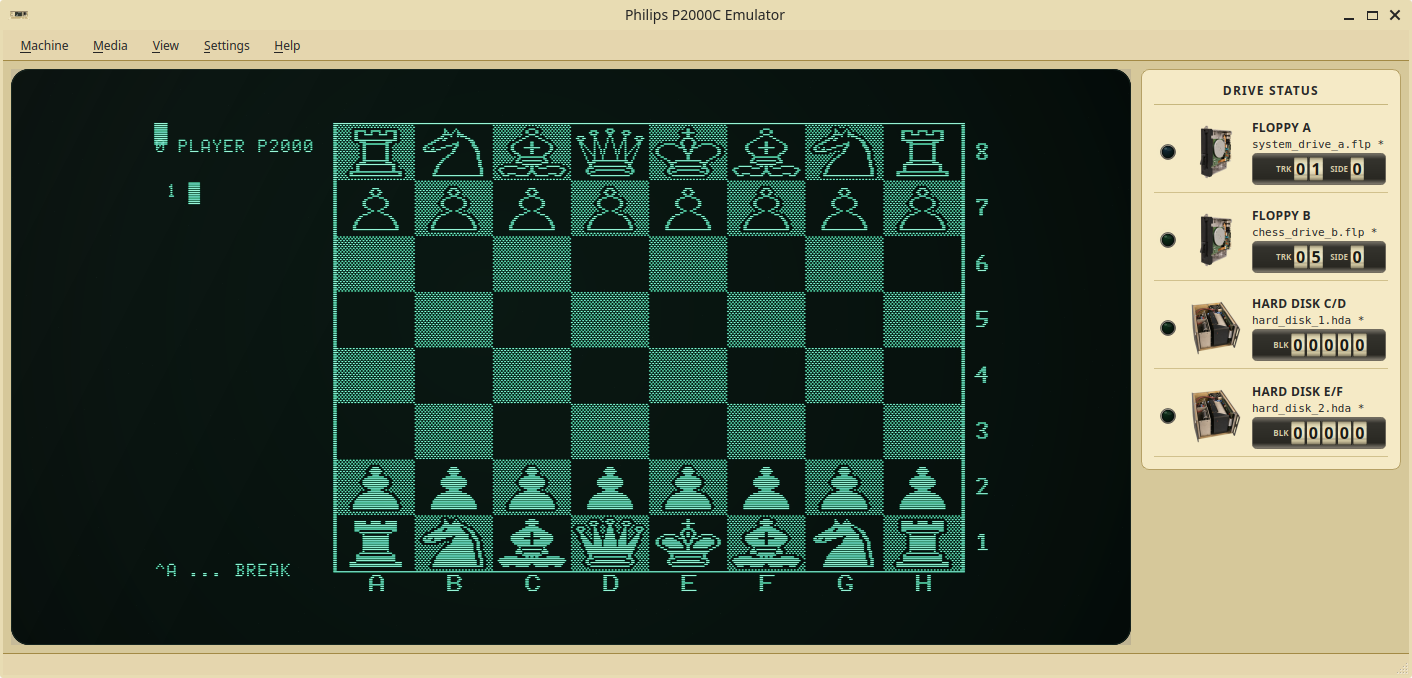
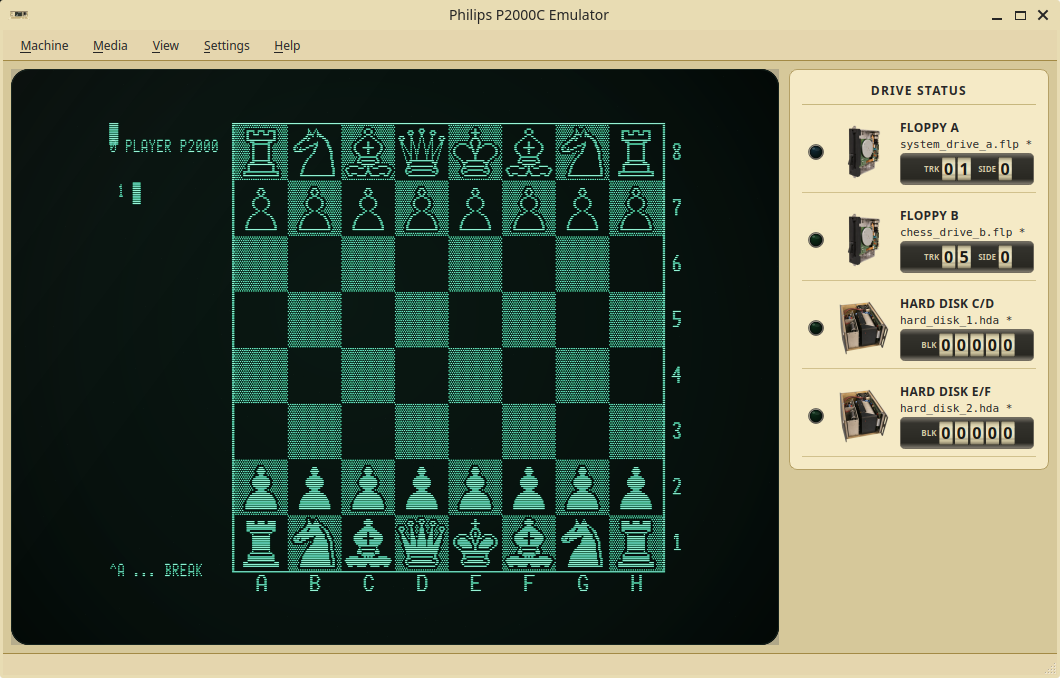
Tuning resolution and fixing Github Actions

diff --git a/tests/main_window_test.cpp b/tests/main_window_test.cpp
@@ -12,7 +12,7 @@
 #include <QEventLoop>
 #include <QFile>
 #include <QFrame>
-#include <QFontInfo>
+#include <QFontDatabase>
 #include <QImage>
 #include <QKeySequence>
 #include <QLabel>
@@ -97,7 +97,7 @@ QPoint active_crt_point(const QImage& image, qreal x, qreal y) {
 /** Checks inverse cells and the four documented intensity levels in pixels. */
 bool validate_attribute_rendering() {
   p2000c::DisplayWidget display;
-  display.setFixedSize(560, 288);
+  display.setFixedSize(384, 288);
   display.set_cursor(0, 0, false);
   p2000c::CrtEffects effects = p2000c::DisplayWidget::default_crt_effects();
   effects.persistence = false;
@@ -168,7 +168,7 @@ bool validate_graphics_rendering() {
   };
   auto render = [](const p2000c::Terminal& terminal) {
     p2000c::DisplayWidget display;
-    display.setFixedSize(560, 288);
+    display.setFixedSize(384, 288);
     display.set_cursor(0, 0, false);
     p2000c::CrtEffects effects = p2000c::DisplayWidget::default_crt_effects();
     effects.persistence = false;
@@ -186,8 +186,8 @@ bool validate_graphics_rendering() {
   p2000c::Terminal medium;
   send(&medium, {0x1b, '5', 0x1b, 'D', 0x00, 0x00});
   const QImage medium_image = render(medium);
-  const QPoint medium_pixel = active_crt_point(medium_image, 57, 269);
-  const QPoint medium_blank = active_crt_point(medium_image, 72, 269);
+  const QPoint medium_pixel = active_crt_point(medium_image, 39, 269);
+  const QPoint medium_blank = active_crt_point(medium_image, 49, 269);
   const int medium_pixel_energy =
       area_energy(medium_image, medium_pixel.x(), medium_pixel.y());
   const int medium_blank_energy =
@@ -204,8 +204,8 @@ bool validate_graphics_rendering() {
   p2000c::Terminal high;
   send(&high, {0x1b, '3', 0x1b, 'D', 0xff, 0x01, 0xfb});
   const QImage high_image = render(high);
-  const QPoint high_pixel = active_crt_point(high_image, 503, 19);
-  const QPoint high_blank = active_crt_point(high_image, 488, 19);
+  const QPoint high_pixel = active_crt_point(high_image, 345, 19);
+  const QPoint high_blank = active_crt_point(high_image, 335, 19);
   const int high_pixel_energy =
       area_energy(high_image, high_pixel.x(), high_pixel.y());
   const int high_blank_energy =
@@ -233,7 +233,7 @@ bool validate_crt_effect_rendering() {
                       p2000c::Terminal::kAttributeIntensityHigh);
   auto render = [&](const p2000c::CrtEffects& effects) {
     p2000c::DisplayWidget display;
-    display.setFixedSize(1120, 576);
+    display.setFixedSize(768, 576);
     display.set_cursor(0, 0, false);
     display.set_crt_effects(effects);
     display.set_screen(lit_screen, lit_attributes);
@@ -298,7 +298,7 @@ bool validate_crt_effect_rendering() {
   }
 
   p2000c::DisplayWidget persistent_display;
-  persistent_display.setFixedSize(560, 288);
+  persistent_display.setFixedSize(384, 288);
   persistent_display.set_cursor(0, 0, false);
   p2000c::CrtEffects persistence = plain;
   persistence.persistence = true;
@@ -342,7 +342,7 @@ bool validate_crt_effect_rendering() {
   }
 
   p2000c::DisplayWidget stable_display;
-  stable_display.setFixedSize(560, 288);
+  stable_display.setFixedSize(384, 288);
   stable_display.set_cursor(0, 0, false);
   stable_display.set_crt_effects(persistence);
   stable_display.set_screen(lit_screen, lit_attributes);
@@ -486,7 +486,7 @@ int main(int argc, char* argv[]) {
 
   p2000c::MainWindow window;
   auto* display = window.findChild<p2000c::DisplayWidget*>();
-  QAction* resolution = find_action(&window, "840 x 432");
+  QAction* resolution = find_action(&window, "640 x 480");
   QAction* screen_color = find_action(&window, "Screen &Appearance...");
   QAction* screenshot = find_named_action(&window, "saveScreenshotAction");
   QAction* sound_volume =
@@ -752,7 +752,7 @@ int main(int argc, char* argv[]) {
   }
 
   resolution->trigger();
-  if (display->size() != QSize(840, 432)) {
+  if (display->size() != QSize(640, 480)) {
     std::cerr << "Fixed display resolution was not applied.\n";
     return 1;
   }
@@ -799,39 +799,70 @@ int main(int argc, char* argv[]) {
       drive_a_card != nullptr && drive_a_card->layout() != nullptr
           ? drive_a_card->layout()->itemAt(2)
           : nullptr;
-  if (drive_a_status == nullptr || drive_a_position == nullptr ||
-      drive_a_menu == nullptr ||
-      drive_a_current == nullptr || drive_panel == nullptr ||
-      drive_a_led == nullptr || drive_a_icon == nullptr ||
-      drive_a_icon->pixmap().isNull() || drive_a_card == nullptr ||
-      drive_a_card->frameShape() != QFrame::NoFrame ||
-      !drive_a_card->property("driveCard").toBool() ||
-      !drive_a_icon->property("driveTypeIcon").toBool() ||
-      drive_a_icon->size() != QSize(60, 60) ||
-      drive_a_icon->pixmap().size() != QSize(58, 58) ||
-      drive_a_text_item == nullptr || drive_a_text_item->layout() == nullptr ||
+  const bool drive_a_widgets_valid =
+      drive_a_status != nullptr && drive_a_position != nullptr &&
+      drive_a_menu != nullptr && drive_a_current != nullptr &&
+      drive_panel != nullptr && drive_a_led != nullptr &&
+      drive_a_icon != nullptr && drive_a_card != nullptr &&
+      drive_a_text_item != nullptr && drive_a_text_item->layout() != nullptr;
+  const bool drive_a_structure_valid =
+      drive_a_widgets_valid && !drive_a_icon->pixmap().isNull() &&
+      drive_a_card->frameShape() == QFrame::NoFrame &&
+      drive_a_card->property("driveCard").toBool() &&
+      drive_a_icon->property("driveTypeIcon").toBool() &&
+      drive_a_icon->size() == QSize(60, 60) &&
+      drive_a_icon->pixmap().size() == QSize(58, 58) &&
+      drive_a_icon->accessibleName().contains("hardware illustration") &&
+      drive_a_status->property("mediaFilename").toBool() &&
+      window.findChild<QWidget*>("floppyDriveASource") == nullptr;
+  const bool drive_a_layout_valid =
+      drive_a_widgets_valid &&
       std::abs(drive_a_led->geometry().center().y() -
-               drive_a_icon->geometry().center().y()) > 1 ||
+               drive_a_icon->geometry().center().y()) <= 1 &&
       std::abs(drive_a_text_item->geometry().center().y() -
-               drive_a_icon->geometry().center().y()) > 1 ||
-      !drive_a_icon->accessibleName().contains("hardware illustration") ||
-      !drive_a_status->property("mediaFilename").toBool() ||
-      !QFontInfo(drive_a_status->font()).fixedPitch() ||
-      window.palette().color(QPalette::Window) != QColor("#e8dcb3") ||
-      !qApp->styleSheet().contains(
-          "QFrame#driveActivityPanel {\n      background: #f5eac6;") ||
-      idle_led.isNull() ||
-      qGray(idle_led.pixel(9, 8)) <= qGray(idle_led.pixel(12, 12)) ||
-      idle_led.pixelColor(12, 12) == idle_led.pixelColor(0, 0) ||
-      drive_a_status->text() != "system_drive_a.flp *" ||
-      window.findChild<QWidget*>("floppyDriveASource") != nullptr ||
-      !drive_a_position->accessibleName().contains("Track") ||
-      !drive_a_position->accessibleName().contains("side") ||
-      !drive_a_status->toolTip().contains("bundled template") ||
-      !drive_a_status->toolTip().contains(system_path) ||
-      !drive_a_menu->title().contains("system_drive_a.flp") ||
-      !drive_a_current->isChecked() || !system->isChecked()) {
-    std::cerr << "Drive A media indicators did not show the mounted image.\n";
+               drive_a_icon->geometry().center().y()) <= 1;
+  const bool system_fixed_font_valid =
+      drive_a_widgets_valid &&
+      drive_a_status->font().family() ==
+          QFontDatabase::systemFont(QFontDatabase::FixedFont).family();
+  const bool idle_led_highlight_valid =
+      !idle_led.isNull() &&
+      qGray(idle_led.pixel(9, 8)) > qGray(idle_led.pixel(12, 12));
+  const bool idle_led_fill_valid =
+      !idle_led.isNull() &&
+      idle_led.pixelColor(12, 12) != idle_led.pixelColor(0, 0);
+  const bool drive_a_style_valid =
+      system_fixed_font_valid &&
+      window.palette().color(QPalette::Window) == QColor("#e8dcb3") &&
+      qApp->styleSheet().contains(
+          "QFrame#driveActivityPanel {\n      background: #f5eac6;") &&
+      idle_led_highlight_valid && idle_led_fill_valid;
+  const bool drive_a_media_valid =
+      drive_a_widgets_valid &&
+      drive_a_status->text() == "system_drive_a.flp *" &&
+      drive_a_position->accessibleName().contains("Track") &&
+      drive_a_position->accessibleName().contains("side") &&
+      drive_a_status->toolTip().contains("bundled template") &&
+      drive_a_status->toolTip().contains(system_path) &&
+      drive_a_menu->title().contains("system_drive_a.flp") &&
+      drive_a_current->isChecked() && system->isChecked();
+  if (!drive_a_structure_valid || !drive_a_layout_valid ||
+      !drive_a_style_valid || !drive_a_media_valid) {
+    std::cerr << "Drive A validation failed: widgets=" << drive_a_widgets_valid
+              << ", structure=" << drive_a_structure_valid
+              << ", layout=" << drive_a_layout_valid
+              << ", style=" << drive_a_style_valid
+              << ", media=" << drive_a_media_valid
+              << ", system-fixed-font=" << system_fixed_font_valid
+              << ", palette="
+              << (window.palette().color(QPalette::Window) ==
+                  QColor("#e8dcb3"))
+              << ", stylesheet="
+              << qApp->styleSheet().contains(
+                     "QFrame#driveActivityPanel {\n      background: #f5eac6;")
+              << ", led-highlight=" << idle_led_highlight_valid
+              << ", led-fill=" << idle_led_fill_valid
+              << ".\n";
     return 1;
   }
   drive_panel->grab().save(QDir(test_root).filePath("drive-panel-preview.png"));

diff --git a/src/app/main_window.cpp b/src/app/main_window.cpp
@@ -383,14 +383,14 @@ struct EmulationSpeed {
 };
 
 constexpr std::array<DisplayResolution, 5> kDisplayResolutions = {{
-    {"560 x 288 (Compact)", {560, 288}},
-    {"840 x 432", {840, 432}},
-    {"1120 x 576 (Recommended)", {1120, 576}},
-    {"1400 x 720", {1400, 720}},
-    {"1680 x 864", {1680, 864}},
+    {"512 x 384 (Compact)", {512, 384}},
+    {"640 x 480", {640, 480}},
+    {"768 x 576 (Recommended)", {768, 576}},
+    {"960 x 720", {960, 720}},
+    {"1152 x 864", {1152, 864}},
 }};
 
-constexpr QSize kDefaultDisplayResolution(1120, 576);
+constexpr QSize kDefaultDisplayResolution(768, 576);
 
 constexpr std::array<EmulationSpeed, 5> kEmulationSpeeds = {{
     {"1 MHz (25%)", 0.25},

diff --git a/src/app/display_widget.h b/src/app/display_widget.h
@@ -52,8 +52,10 @@ class DisplayWidget : public QWidget {
     static constexpr int kCharacterSheetPitch = 12;
     static constexpr int kTextRasterWidth = kColumns * kCharacterWidth;
     static constexpr int kTextRasterHeight = kRows * kCharacterHeight;
-    static constexpr int kDisplayWidth = kTextRasterWidth * 7 / 8;
     static constexpr int kDisplayHeight = kTextRasterHeight;
+    // The raster timings are mapped onto the P2000C's conventional 4:3 CRT;
+    // its 640 horizontal dots were not physically square pixels.
+    static constexpr int kDisplayWidth = kDisplayHeight * 4 / 3;
 
     struct RasterRun {
         int column = 0;

diff --git a/src/app/display_widget.cpp b/src/app/display_widget.cpp
@@ -195,7 +195,7 @@ void DisplayWidget::set_cursor(int column, int row, bool visible) {
   update();
 }
 
-QSize DisplayWidget::sizeHint() const { return {980, 504}; }
+QSize DisplayWidget::sizeHint() const { return {768, 576}; }
 
 QSize DisplayWidget::minimumSizeHint() const {
   return {kDisplayWidth, kDisplayHeight};

diff --git a/docs/hardware.md b/docs/hardware.md
@@ -141,10 +141,11 @@ cell contain character-generator data; the other four columns are sheet
 spacing and are not part of the emulated display.
 
 Timing coordinates do not imply square physical dots on the 9-inch CRT. The Qt
-presentation uses a 7:8 horizontal-to-vertical dot pitch, calibrated from the
-6x7 lit-dot bounding box of `O` in the character data and the supplied monitor
-close-up. Contiguous dots on one scanline are rendered as a single rounded
-phosphor stroke. A subtractive gap mask keeps scanlines visible at common host
+presentation maps the 640x288 timing raster onto the tube's 4:3 display area,
+giving its dots a 3:5 horizontal-to-vertical pitch. This preserves all 80
+columns without presenting the physical screen as a modern widescreen.
+Contiguous dots on one scanline are rendered as a single rounded phosphor
+stroke. A subtractive gap mask keeps scanlines visible at common host
 resolutions, while low-alpha additive layers provide bloom without filling the
 gap. Brighter attributes produce a slightly wider beam.
 